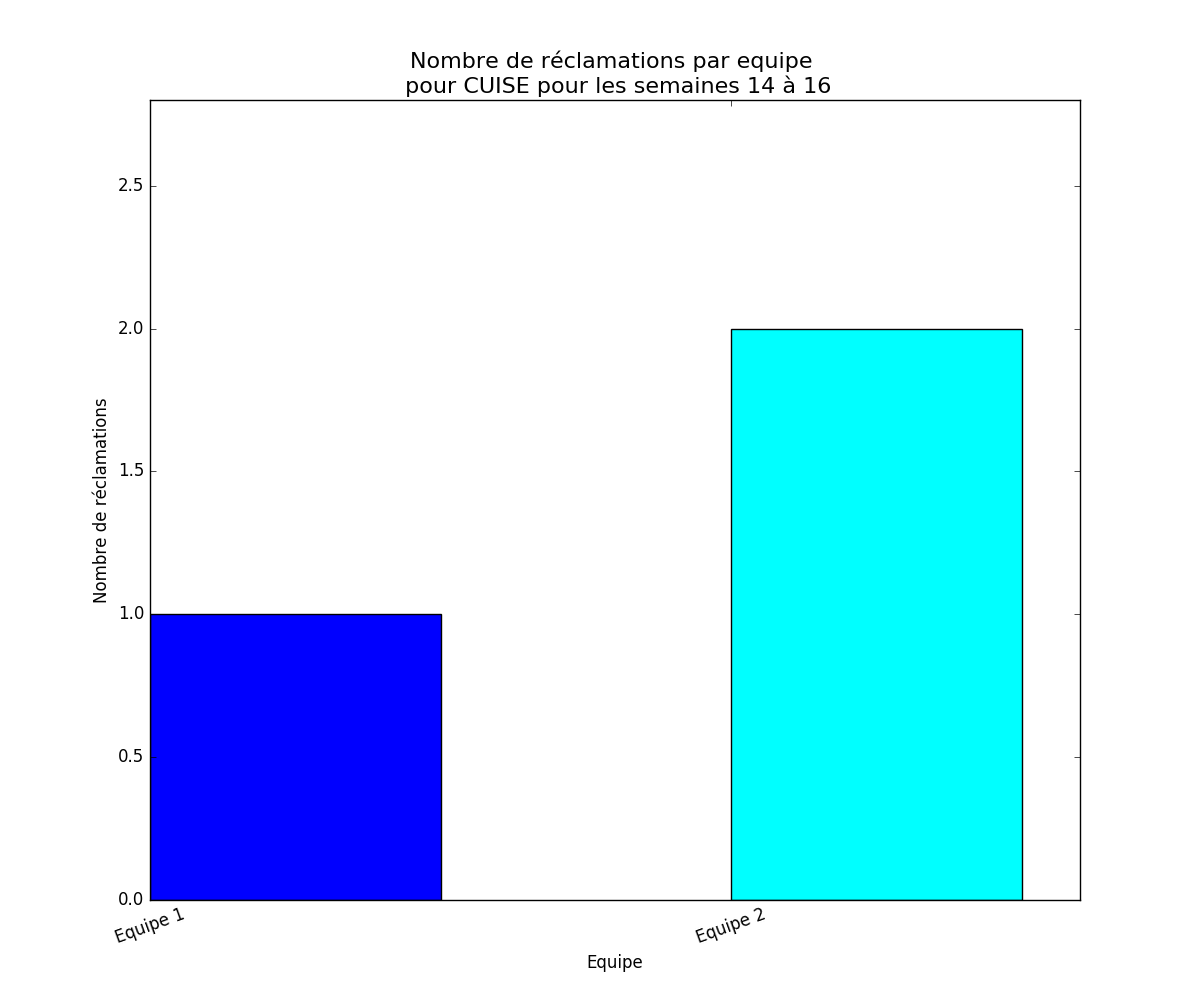
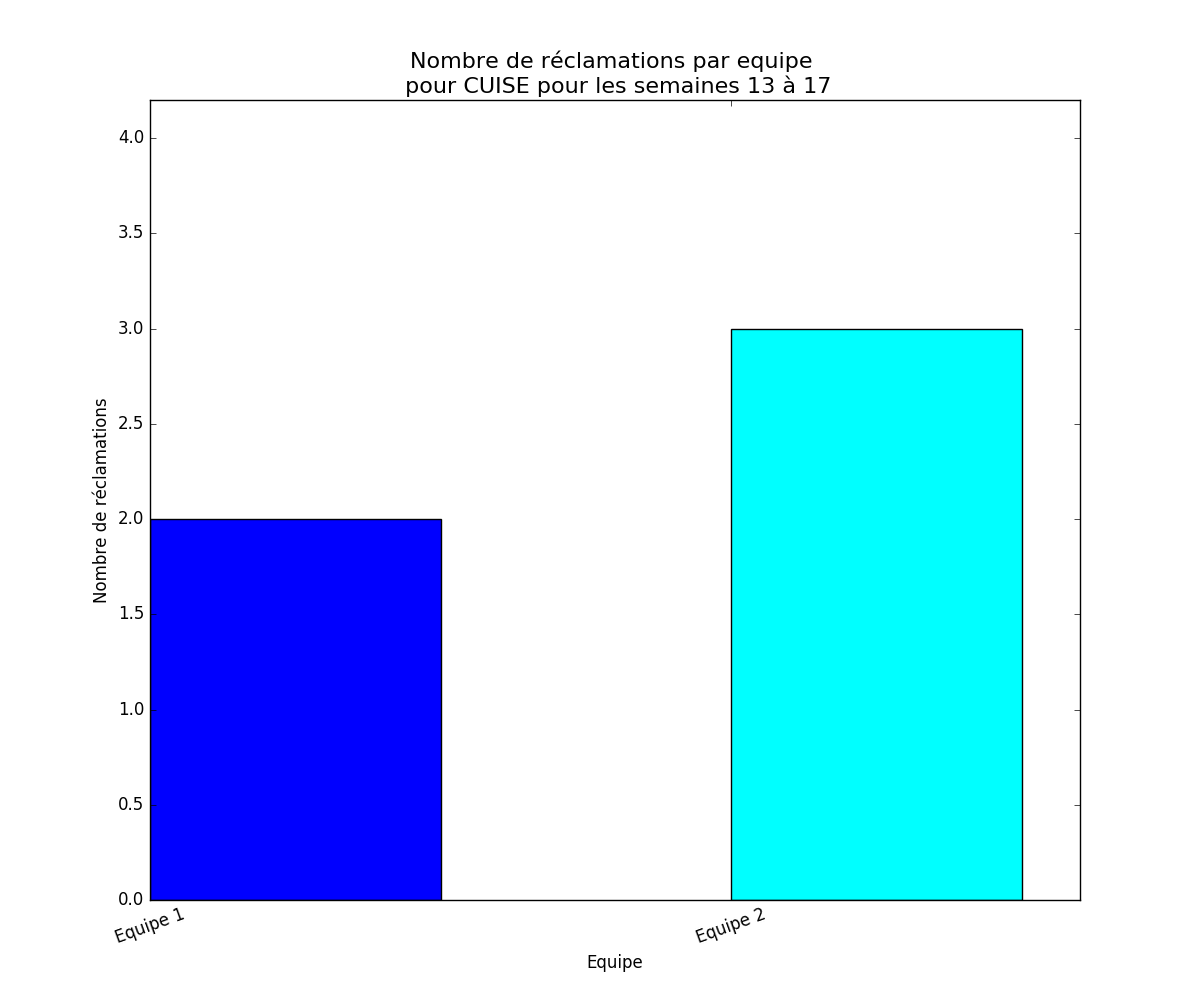
Ajout choix limite temps

diff --git a/model.py b/model.py
@@ -6,6 +6,7 @@ import csv
 from PIL import Image # Faire sudo pip install pillow pour utiliser cette librairie
 from fpdf import FPDF # Faire sudo pip install fpdf pour utiliser cette librairie
 from collections import Counter
+
 import matplotlib.pyplot as plt # pour les graphes, faire sudo apt-get install python-matplotlib avant
 import numpy as np
 from datetime import datetime
@@ -49,7 +50,8 @@ class Model :
 
 	def readSites(self) :
 		liste_sites={}
-		l_sites = csv.reader(open("liste_sites","rb"))
+		stream=open("liste_sites","rb")
+		l_sites = csv.reader(stream)
 		for row in l_sites:
 			liste_sites[row[0]] = {}
 			liste_sites[row[0]]['nombre_tournee'] = row[1]
@@ -58,7 +60,49 @@ class Model :
 			liste_sites[site]['liste_equipe'] = liste_sites[site]['liste_equipe'].split('_')
 			for equipe in range(0,len(liste_sites[site]['liste_equipe'])):
 				liste_sites[site]['liste_equipe'][equipe] = liste_sites[site]['liste_equipe'][equipe].split('-')
+		stream.close()
 		return liste_sites
+
+	def definePeriodsLimits(self, nomFichier, choixPeriode):
+		with open("FichiersCSV/"+nomFichier, 'rb') as csvfile:
+
+			bdd = csv.reader(csvfile, delimiter=';')
+			motif=[]
+			sites = {}
+			nb_recla = {}
+			tournee_site_date={}
+			liste_recla={}
+			motif_site_date = {}
+			#liste_sites = []
+			selection_site = []
+
+
+			#lecture de la liste des sites
+			l_sites = self.readSites()
+			self.l_sites=l_sites
+
+			self.MAJListeSites(self.l_sites)
+			self.selectionSites(sites, nb_recla, liste_recla, motif_site_date, tournee_site_date, selection_site)
+
+			# détermination des dates min et max et du nombre de semaines
+			#lecture du csv : lecture des motifs, separation par site
+			date_min_max = self.parcoursBDD(bdd, sites, nb_recla, liste_recla, motif_site_date, tournee_site_date, motif)
+			periodeMinMax=list()
+			if choixPeriode=='Mois':
+				moisMin = date_min_max['date_min'].month
+				moisMax=date_min_max['date_max'].month
+				periodeMinMax.append(moisMin)
+				periodeMinMax.append(moisMax)
+			if choixPeriode=='Semaines':
+				semaineMin=date_min_max['date_min'].isocalendar()[1]
+				semaineMax=date_min_max['date_max'].isocalendar()[1]
+				periodeMinMax.append(semaineMin)
+				periodeMinMax.append(semaineMax)
+			if choixPeriode=='Trimestre':
+				periodeMinMax.append(1)
+				periodeMinMax.append(4)
+		return periodeMinMax
+
 
 	""" Fonction qui se lance pour la création des graphiques sur les indicateurs"""
 	def readCSV1(self,nomFichier,listeSitesCoches,choixPeriode,valeurPeriode) :
@@ -337,7 +381,8 @@ class Model :
 		print("Voici le contenu de l_sites")
 		print(l_sites)
 		fichier = open("liste_sites", "rb")
-		c_write = csv.writer(open("liste_sites_temp", "wb"))
+		fichier1=open("liste_sites_temp", "wb")
+		c_write = csv.writer(fichier1)
 
 		#ecriture de la nouvelle liste dans un fichier temporaire puis suppression
 		for site in l_sites:
@@ -350,6 +395,8 @@ class Model :
 			c_write.writerow([site,l_sites[site]['nombre_tournee'],equipes[1:]])
 		os.remove("liste_sites")
 		os.renames("liste_sites_temp", "liste_sites")
+		fichier1.close()
+		fichier.close()
 
 
 	def selectionSites(self, sites, nb_recla, liste_recla, motif_site_date, tournee_site_date, selection_site):

diff --git a/vue2.py b/vue2.py
@@ -6,20 +6,26 @@ from ttk import *
 from tkMessageBox import *
 
 class FenetreInput:
-    def __init__(self,fenetreP,choixFait,controller):
+    def __init__(self,fenetreP,choixFait,controller,periodeMinMax):
 
         self.master = Tk()
         self.master.wm_title("Intervalle de temps considéré")
         if choixFait=="Mois":
+            if periodeMinMax[0]==periodeMinMax[1]:
+                self.sbMois=Spinbox(self.master, values=periodeMinMax)
+            else:
+                self.sbMois=Spinbox(self.master, from_=int(periodeMinMax[0]), to_=int(periodeMinMax[1]))
+
             self.labelMois=Label(self.master, text="Choisissez un mois entre 1 et 12")
             self.labelMois.grid(row=0,column=0)
-            self.sbMois=Spinbox(self.master, from_=1, to_=12)
+            print(periodeMinMax[0])
+            print(periodeMinMax[0])
             self.sbMois.grid(row=0,column=1)
         if choixFait=="Semaines":
-            self.labelSemaines=Label(self.master, text="Choisissez un  intervalle de semaine de type a-b (avec a<=b) et b<4")
+            self.labelSemaines=Label(self.master, text="Choisissez un  intervalle de semaine de type a-b (avec a<=b)")
             self.labelSemaines.grid(row=0,column=0)
-            self.sbSemaines1=Spinbox(self.master, from_=1, to_=4)
-            self.sbSemaines2=Spinbox(self.master, from_=1, to_=4)
+            self.sbSemaines1=Spinbox(self.master, from_=int(periodeMinMax[0]), to_=int(periodeMinMax[1]))
+            self.sbSemaines2=Spinbox(self.master, from_=int(periodeMinMax[0]), to_=int(periodeMinMax[1]))
             self.sbSemaines1.grid(row=0,column=1)
             self.sbSemaines2.grid(row=0,column=2)
 
@@ -27,7 +33,7 @@ class FenetreInput:
         if choixFait=="Trimestre":
             self.labelTrim=Label(self.master, text="Choisissez un trimestre entre 1 et 4")
             self.labelTrim.grid(row=0,column=0)
-            self.sbTrim=Spinbox(self.master, from_=1, to_=4)
+            self.sbTrim=Spinbox(self.master, from_=int(periodeMinMax[0]), to_=int(periodeMinMax[1]))
             self.sbTrim.grid(row=0,column=1)
 
         self.bouton=Button(self.master, text="Valider")

diff --git a/controller.py b/controller.py
@@ -236,12 +236,16 @@ class Controller():
 
     def openChoices(self,event):
         periodeChoisie=str(self.vue.listePeriods.get())
-        self.fenetreChoix=FenetreInput(self.vue,periodeChoisie,self)
+        periodeMinMax=self.model.definePeriodsLimits(str(self.vue.listeCSV.get()), periodeChoisie)
+        print("VOICI LA DATE MINIMUM ET LA PERIODE MAX")
+        print(periodeMinMax)
+        self.fenetreChoix=FenetreInput(self.vue,periodeChoisie,self, periodeMinMax)
         self.fenetreChoix.bouton.bind("<Button-1>",self.beginExtraction)
 
     def openChoicesRecla(self,event):
         periodeChoisie=str(self.vue.listePeriods.get())
-        self.fenetreChoix=FenetreInput(self.vue,periodeChoisie,self)
+        periodeMinMax=self.model.definePeriodsLimits(str(self.vue.listeCSV.get()), periodeChoisie)
+        self.fenetreChoix=FenetreInput(self.vue,periodeChoisie,self, periodeMinMax)
         self.fenetreChoix.bouton.bind("<Button-1>",self.beginReclamation)
 
 
